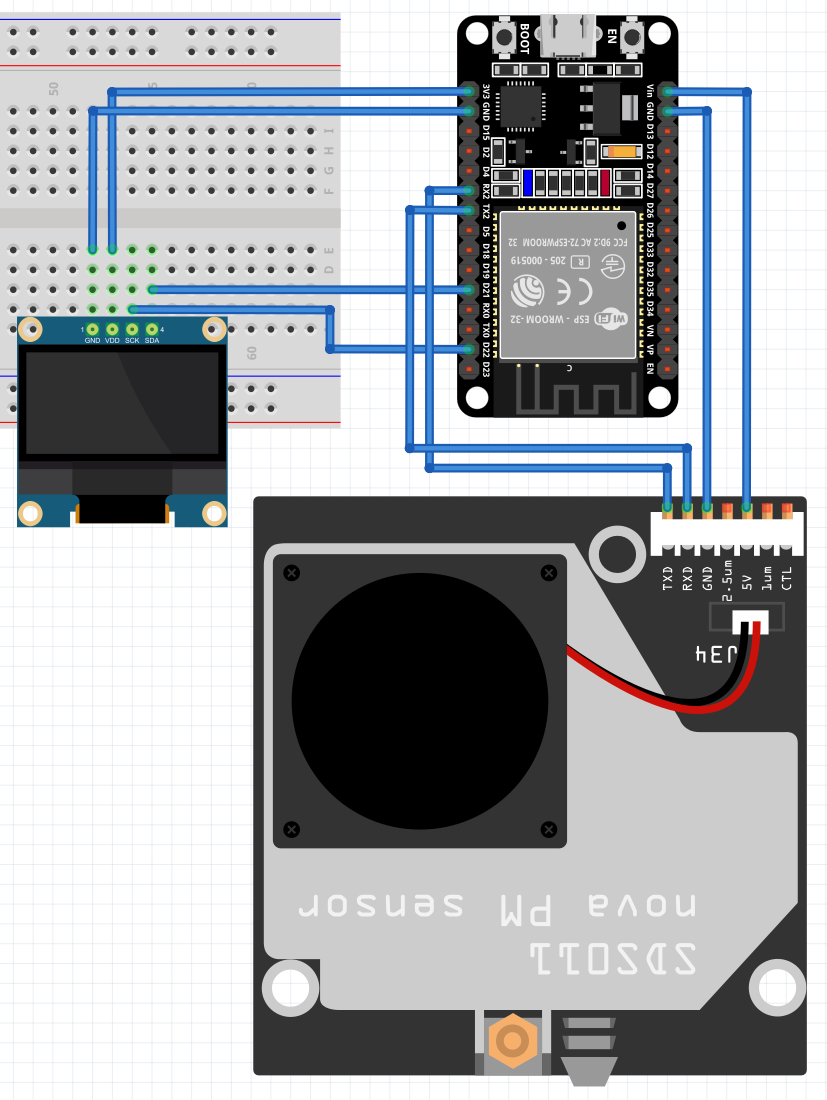
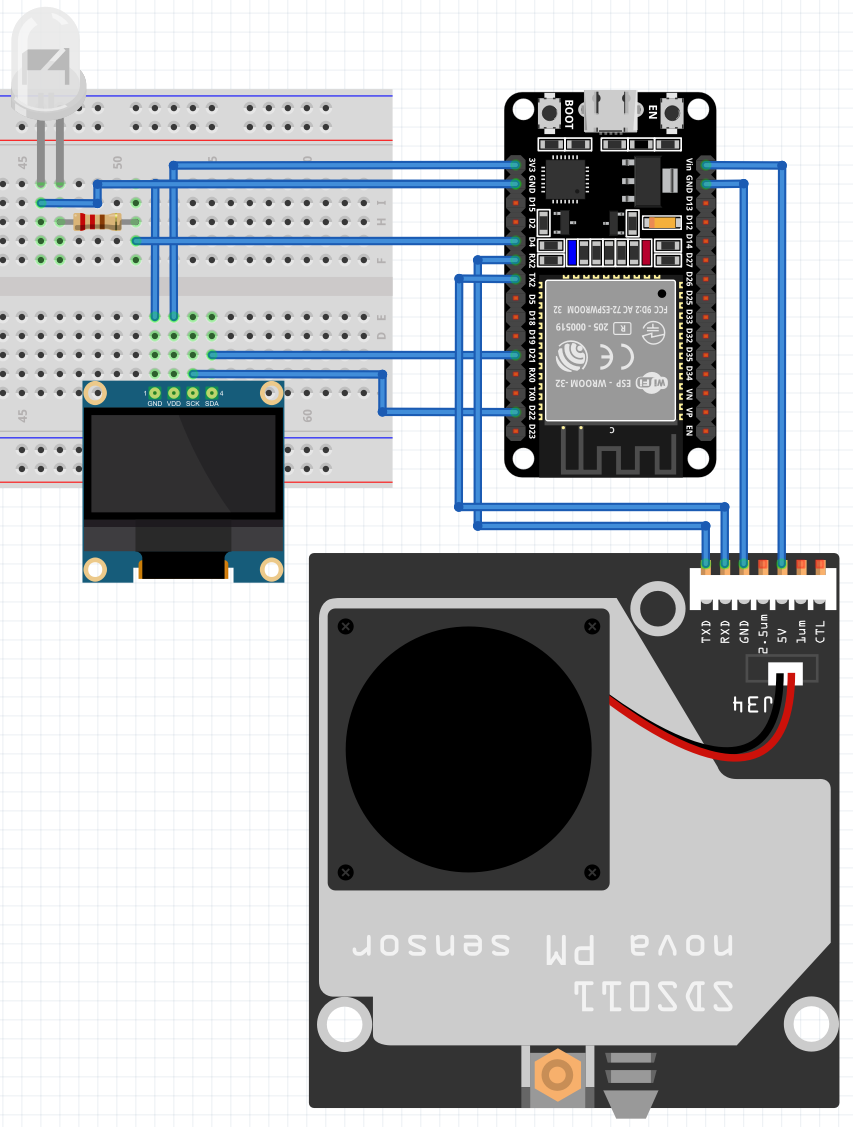
final code added but RFM95 misses

diff --git a/tests/esp32/main_test.md b/tests/esp32/main_test.md
@@ -1,7 +1,7 @@
 ---
-title: SDS011 and display Test
+title: Final Code
 layout: default
-nav_order: 4
+nav_order: 8
 parent: ESP32
 grand_parent: ESP code
 ---
@@ -24,7 +24,13 @@ Collegare i pin del display SSD1306 come segue:
 3. SCK --> GPIO22 ESP32
 4. SDA --> GPIO21 ESP32
 
-![ESP32 Wiring Diagram](../../images/wiring_diagrams/esp32_sds011_display_wiring_diagram.png)  
+Collegare i pin del led come segue:
+
+1. Anodo --> Resistenza 220ohm
+2. Resistenza 220ohm --> GPIO4 ESP32
+3. Catodo --> GND ESP32
+
+![ESP32 Wiring Diagram](../../images/wiring_diagrams/esp32_wiring_diagram.png)  
 *ESP32 Wiring Diagram*
 
 ## 2. Installazione delle librerie
@@ -43,6 +49,9 @@ Installare le seguenti librerie nell'Arduino IDE:
 Collegare l'ESP32 al pc, copiare il codice seguente in un file nell'Arduino IDE e caricarlo sul microcontrollore.
 
 ```
+// sds011 code explanation
+// https://electronicsinnovation.com/interfacing-sds011-air-quality-sensor-with-esp8266-diy-air-pollution-monitor-part1/
+
 // libraries for display
 #include <Wire.h>
 #include <Adafruit_GFX.h>
@@ -53,9 +62,16 @@ Collegare l'ESP32 al pc, copiare il codice seguente in un file nell'Arduino IDE 
 #include <SoftwareSerial.h>
 #include <esp_sds011.h>
 
+// libraries for MQTT
+#include <WiFi.h>
+#include <PubSubClient.h>
+
 // SDS011 global variables
 #define SDS_PIN_RX 16
 #define SDS_PIN_TX 17
+
+// LED pin
+#define LED 4
 
 #ifdef ESP32
 HardwareSerial& serialSDS(Serial2);
@@ -66,7 +82,7 @@ Sds011Async< EspSoftwareSerial::UART > sds011(serialSDS);
 #endif
 
 constexpr int pm_tablesize = 20;
-int pm2_5_table[pm_tablesize];
+int pm25_table[pm_tablesize];
 int pm10_table[pm_tablesize];
 
 bool is_SDS_running = true;
@@ -101,9 +117,94 @@ void stop_SDS() {
 
 Adafruit_SSD1306 display(SCREEN_WIDTH, SCREEN_HEIGHT, &Wire, OLED_RESET);
 
+// MQTT global variables
+const char* ssid = "SSID";
+const char* password = "PASSWORD";
+
+const char* mqtt_server = "IP_ADDRESS";
+
+// MQTT broker credentials
+const char* MQTT_username = "USERNAME";
+const char* MQTT_password = "MQTT_PASSWORD";
+
+// Initializes the espClient. You should change the espClient name if you have multiple ESPs running in your home automation system
+WiFiClient espClient;
+PubSubClient client(espClient);
+
+// MQTT auxiliary functions
+
+// Don't change the function below. This functions connects your ESP32 to your router
+void setup_wifi() {
+  delay(10);
+  // We start by connecting to a WiFi network
+  Serial.println();
+  Serial.print("Connecting to ");
+  Serial.println(ssid);
+  WiFi.begin(ssid, password);
+  while (WiFi.status() != WL_CONNECTED) {
+    delay(500);
+    Serial.print(".");
+  }
+  Serial.println("");
+  Serial.print("WiFi connected - ESP IP address: ");
+  Serial.println(WiFi.localIP());
+}
+
+// This functions is executed when some device publishes a message to a topic that your ESP32 is subscribed to
+// Change the function below to add logic to your program, so when a device publishes a message to a topic that 
+// your ESP32 is subscribed you can actually do something
+void callback(String topic, byte* message, unsigned int length) {
+  Serial.print("Message arrived on topic: ");
+  Serial.print(topic);
+  Serial.print(". Message: ");
+  String topicMessage;
+  int i;
+  for (i = 0; i < length; i++) {
+    Serial.print((char)message[i]);
+    topicMessage += (char)message[i];
+  }
+  Serial.println();
+
+  if (String(topic) == "esp32/output") {
+    Serial.print("Turn led ");
+    if(topicMessage == "on"){
+      Serial.println("on");
+      digitalWrite(LED, HIGH);
+    }
+    else if(topicMessage == "off"){
+      Serial.println("off");
+      digitalWrite(LED, LOW);
+    }
+  }
+}
+
+// This functions reconnects your ESP32 to your MQTT broker
+// Change the function below if you want to subscribe to more topics with your ESP32
+void reconnect() {
+  // Loop until we're reconnected
+  while (!client.connected()) {
+    Serial.print("Attempting MQTT connection...");
+    // Attempt to connect
+    if (client.connect("ESP32Client", MQTT_username, MQTT_password)) {
+      Serial.println("connected");
+      // Subscribe
+      client.subscribe("esp32/output");
+    }
+    else {
+      Serial.print("failed, rc=");
+      Serial.print(client.state());
+      Serial.println(" try again in 5 seconds");
+      // Wait 5 seconds before retrying
+      delay(5000);
+    }
+  }
+}
+
 void setup() {
   // Initialize Serial communication with the computer
   Serial.begin(115200);
+
+  pinMode(LED, OUTPUT);
 
   Serial.println("Initializing SDS011 Air Quality Monitor...");
 
@@ -148,6 +249,10 @@ void setup() {
   display.print("Booting...");
   display.display();
 
+  setup_wifi();
+  client.setServer(mqtt_server, 1883);
+  client.setCallback(callback);
+
   delay(2000);
 }
 
@@ -173,25 +278,35 @@ void loop() {
   Serial.print(is_SDS_running);
   Serial.println(')');
 
-  float pm2_5;
-  float pm10;
-
   sds011.on_query_data_auto_completed([](int n) {
     Serial.println("Begin Handling SDS011 query data");
+    int pm25;
+    int pm10;
     Serial.print("n = "); Serial.println(n);
-    if (sds011.filter_data(n, pm2_5_table, pm10_table, pm2_5, pm10) && !isnan(pm10) && !isnan(pm2_5)) {
-      Serial.print("PM10: ");
-      Serial.print(pm10 / 10, 2);
-      Serial.print(" µg/m³   ");
+    if (sds011.filter_data(n, pm25_table, pm10_table, pm25, pm10) && !isnan(pm10) && !isnan(pm25)) {
       Serial.print("PM2.5: ");
-      Serial.print(pm2_5 / 10, 2);
+      Serial.print(float(pm25) / 10, 2);
+      Serial.print(" µg/m³   ");
+      Serial.print("PM10: ");
+      Serial.print(float(pm10) / 10, 2);
       Serial.println(" µg/m³");
     }
     Serial.println("End Handling SDS011 query data");
   });
 
-  if (!sds011.query_data_auto_async(pm_tablesize, pm2_5_table, pm10_table)) {
+  float pm25_float;
+  float pm10_float;
+  if (!sds011.query_data_auto_async(pm_tablesize, pm25_table, pm10_table)) {
     Serial.println("measurement capture start failed");
+  }
+  else {
+    int i;
+    for (i = 0, pm25_float = 0, pm10_float = 0; i < pm_tablesize; i++) {
+      pm25_float += pm25_table[i];
+      pm10_float += pm10_table[i];
+    }
+    pm25_float /= pm_tablesize;
+    pm10_float /= pm_tablesize;
   }
 
   deadline = millis() + duty_s * 1000;
@@ -201,15 +316,11 @@ void loop() {
     sds011.perform_work();
   }
 
-  String pm2_5_str = String(pm2_5, 2);
-  String pm10_str = String(pm10, 2);
+  String pm25_str = String(pm25_float / 10, 2);
+  String pm10_str = String(pm10_float, 2);
   // Print the values
-  Serial.print("PM2.5: ");
-  Serial.print(pm2_5, 2);  // 2 decimal places
-  Serial.print(" µg/m³   ");
-  Serial.print("PM10: ");
-  Serial.print(pm10, 2);  // 2 decimal places
-  Serial.println(" µg/m³   ");
+  Serial.print("PM2.5: " + pm25_str + " µg/m³   ");
+  Serial.print("PM10: " + pm10_str + " µg/m³   ");
 
   display.clearDisplay();
   display.setFont(&FreeMono9pt7b);
@@ -223,7 +334,7 @@ void loop() {
   display.setCursor(0, 30);
   display.print("PM2.5: ");
   display.setCursor(0, 50);
-  display.print(pm2_5_str);  // 2 decimal places
+  display.print(pm25_str);  // 2 decimal places
   display.print(" µg/m³");
   display.display();
   delay(3000);
@@ -241,6 +352,14 @@ void loop() {
   display.print(" µg/m³");
   display.display();
   delay(3000);
-}
 
+  // MQTT connection and sending data to nodered
+  if (!client.connected())
+    reconnect();
+  if(!client.loop())
+    client.connect("ESP32Client", MQTT_username, MQTT_password);
+  // Publishes pm2_5 and pm10 values    
+  client.publish("air_quality_monitor/pm2_5", pm25_str.c_str());
+  client.publish("air_quality_monitor/pm10", pm10_str.c_str());
+}
 ```

diff --git a/nodered_flow_chart.md b/nodered_flow_chart.md
@@ -4,6 +4,11 @@ layout: default
 nav_order: 8
 ---
 
+
+TODO: AGGIUNGERE CASO CON INVIO DI SEGNALE TRAMITE NODERED AD ESEMPIO PER ACCENDERE UN RELÈ
+
+
+
 # Creazione del flow chart in Node-RED e della UI
 
 ## 1. Fare qualche test coi presenti in Node-RED
